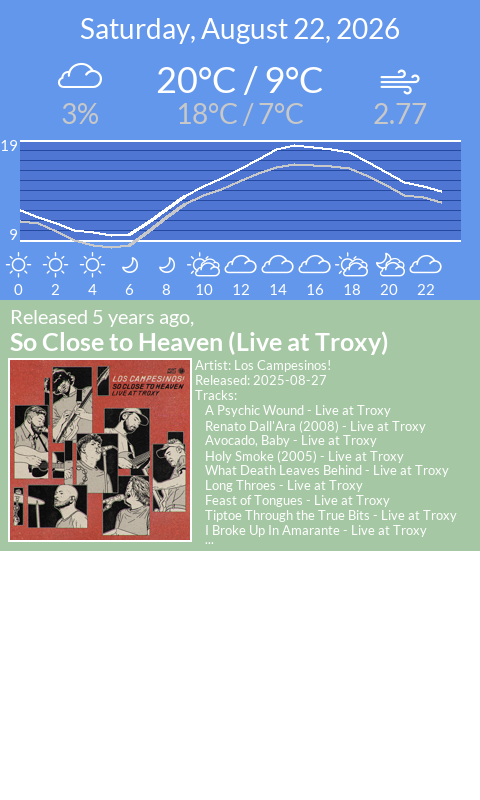
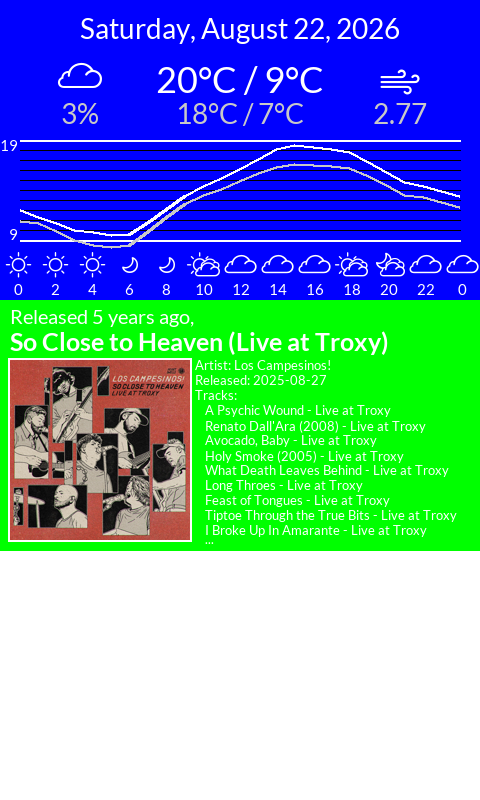
Added a color palette system

diff --git a/WeatherWindow.py b/WeatherWindow.py
@@ -4,7 +4,7 @@ from zoneinfo import ZoneInfo
 import requests
 import sys
 
-def DrawWindow(draw, API_KEY, startingYPos):
+def DrawWindow(draw, COLOR_PALETTE, API_KEY, startingYPos):
     # Loading fonts
     try:
         small_lato_font_regular = ImageFont.truetype("Lato/Lato-Regular.ttf", size=15)
@@ -127,7 +127,7 @@ def DrawWindow(draw, API_KEY, startingYPos):
     # Drawing the background
     draw.rectangle(
         (0, startingYPos - 300, 480, startingYPos),
-        fill=(99, 151, 235))
+        fill=COLOR_PALETTE["BLUE"])
 
     # Getting the current date and allowed tomorrow date
     dundeeTime = datetime.now(ZoneInfo("Europe/London")) + timedelta(days=1)
@@ -159,10 +159,10 @@ def DrawWindow(draw, API_KEY, startingYPos):
         # Only draw the data if the hour is even
         if (dateTimeObject.hour % 2 == 0):
             # Drawing weather condition symbol
-            draw.text(((index + 0.5) * 37, startingYPos - 20), WEATHER_CODE_SYMBOLS[entry["significantWeatherCode"]], fill=(255, 255, 255), font=symbol_font, anchor="ms")
+            draw.text(((index + 0.5) * 37, startingYPos - 20), WEATHER_CODE_SYMBOLS[entry["significantWeatherCode"]], fill=COLOR_PALETTE["WHITE"], font=symbol_font, anchor="ms")
 
             # Drawing time
-            draw.text(((index + 0.5) * 37, startingYPos - 5), timeString, fill=(255, 255, 255), font=small_lato_font_regular, anchor="ms")
+            draw.text(((index + 0.5) * 37, startingYPos - 5), timeString, fill=COLOR_PALETTE["WHITE"], font=small_lato_font_regular, anchor="ms")
 
             # Increasing index
             index += 1
@@ -177,25 +177,21 @@ def DrawWindow(draw, API_KEY, startingYPos):
         maxTemp = max(maxTemp, entry["screenTemperature"])
         minTemp = min(minTemp, entry["screenTemperature"])
 
-    # Drawing a box for the temp graph
+    # Calculating the height of the graph
     tempGraphHeight = max(maxGraphTemp - minGraphTemp, 5)
-    draw.rectangle(
-        (20, startingYPos - 160, 460, startingYPos - 60),
-        fill=(80, 118, 212)
-    )
 
     # Drawing incremental lines for each integer degree value
     degrees = int(round(maxGraphTemp) - round(minGraphTemp))
     degreeOffset = 100 / float(degrees)
     for i in range(degrees):
         lineYPos = startingYPos - 60 - (i * degreeOffset)
-        draw.line((20, lineYPos, 460, lineYPos), fill=(37, 73, 161), width=1)
+        draw.line((20, lineYPos, 460, lineYPos), fill=COLOR_PALETTE["BLACK"], width=1)
 
     # Drawing lines and labels for the top and bottom lines
-    draw.text((18, startingYPos - 60), str(round(minGraphTemp)), fill=(255, 255, 255), font=small_lato_font_regular, anchor="rb")
-    draw.text((18, startingYPos - 160), str(round(maxGraphTemp)), fill=(255, 255, 255), font=small_lato_font_regular, anchor="rt")
-    draw.line((20, startingYPos - 60, 460, startingYPos - 60), fill=(255, 255, 255), width=2)
-    draw.line((20, startingYPos - 160, 460, startingYPos - 160), fill=(255, 255, 255), width=2)
+    draw.text((18, startingYPos - 60), str(round(minGraphTemp)), fill=COLOR_PALETTE["WHITE"], font=small_lato_font_regular, anchor="rb")
+    draw.text((18, startingYPos - 160), str(round(maxGraphTemp)), fill=COLOR_PALETTE["WHITE"], font=small_lato_font_regular, anchor="rt")
+    draw.line((20, startingYPos - 60, 460, startingYPos - 60), fill=COLOR_PALETTE["WHITE"], width=2)
+    draw.line((20, startingYPos - 160, 460, startingYPos - 160), fill=COLOR_PALETTE["WHITE"], width=2)
 
     # Looping through the temp data points and drawing a graph
     for i in range(len(actualTempPoints) - 1):
@@ -208,8 +204,8 @@ def DrawWindow(draw, API_KEY, startingYPos):
         feelsLikeTempLineEnd = ((i + 1) * 18.333 + 20, (feelsLikeTempPoints[i + 1] - minGraphTemp) / tempGraphHeight * -90 + startingYPos - 65)
 
         # Drawing a line from point i to i + 1
-        draw.line((feelsLikeTempLineStart, feelsLikeTempLineEnd), fill=(200, 200, 200), width=3)
-        draw.line((actualTempLineStart, actualTempLineEnd), fill=(255, 255, 255), width=3)
+        draw.line((feelsLikeTempLineStart, feelsLikeTempLineEnd), fill=COLOR_PALETTE["LIGHT_GREY"], width=3)
+        draw.line((actualTempLineStart, actualTempLineEnd), fill=COLOR_PALETTE["WHITE"], width=3)
 
     # Getting daily weather info
     BASE_URL = "https://data.hub.api.metoffice.gov.uk/sitespecific/v0/point/daily"
@@ -246,8 +242,8 @@ def DrawWindow(draw, API_KEY, startingYPos):
         # Drawing temp ranges
         tempRange = f"{round(weatherToday["dayUpperBoundMaxTemp"])}°C / {round(weatherToday["nightLowerBoundMinTemp"])}°C" 
         feelsLikeTempRange = f"{round(weatherToday["dayUpperBoundMaxFeelsLikeTemp"])}°C / {round(weatherToday["nightLowerBoundMinFeelsLikeTemp"])}°C" 
-        draw.text((240, startingYPos - (200 + 5)), tempRange, fill=(255, 255, 255), font=large_lato_font_regular, anchor="mb")
-        draw.text((240, startingYPos - (200 - 3)), feelsLikeTempRange, fill=(200, 200, 200), font=medium_lato_font_regular, anchor="mt")
+        draw.text((240, startingYPos - (200 + 5)), tempRange, fill=COLOR_PALETTE["WHITE"], font=large_lato_font_regular, anchor="mb")
+        draw.text((240, startingYPos - (200 - 3)), feelsLikeTempRange, fill=COLOR_PALETTE["LIGHT_GREY"], font=medium_lato_font_regular, anchor="mt")
 
         # Drawing chance of rain
         rainIcons = [
@@ -258,17 +254,17 @@ def DrawWindow(draw, API_KEY, startingYPos):
         ]
         rainChance = f"{weatherToday["dayProbabilityOfPrecipitation"]}%"
         rainIconIndex = round((weatherToday["dayProbabilityOfPrecipitation"] / 25))
-        draw.text((80, startingYPos - (200 + 3)), rainIcons[rainIconIndex], fill=(255, 255, 255), font=large_symbol_font, anchor="mb")
-        draw.text((80, startingYPos - (200 - 3)), rainChance, fill=(200, 200, 200), font=medium_lato_font_regular, anchor="mt")
+        draw.text((80, startingYPos - (200 + 3)), rainIcons[rainIconIndex], fill=COLOR_PALETTE["WHITE"], font=large_symbol_font, anchor="mb")
+        draw.text((80, startingYPos - (200 - 3)), rainChance, fill=COLOR_PALETTE["LIGHT_GREY"], font=medium_lato_font_regular, anchor="mt")
 
         # Drawing wind speeds
         windSpeeds = f"{weatherToday["midday10MWindSpeed"]}"
-        draw.text((400, startingYPos - (200 - 3)), "", fill=(255, 255, 255), font=large_symbol_font, anchor="mb")
-        draw.text((400, startingYPos - (200 - 3)), windSpeeds, fill=(200, 200, 200), font=medium_lato_font_regular, anchor="mt")
+        draw.text((400, startingYPos - (200 - 3)), "", fill=COLOR_PALETTE["WHITE"], font=large_symbol_font, anchor="mb")
+        draw.text((400, startingYPos - (200 - 3)), windSpeeds, fill=COLOR_PALETTE["LIGHT_GREY"], font=medium_lato_font_regular, anchor="mt")
 
         # Drawing day at the top
         dateText = dundeeTime.strftime("%A, %B %#d, %Y")
-        draw.text((240, startingYPos - 282), dateText, fill=(255, 255, 255), font=medium_lato_font_regular, anchor="mt")
+        draw.text((240, startingYPos - 282), dateText, fill=COLOR_PALETTE["WHITE"], font=medium_lato_font_regular, anchor="mt")
         
     except requests.exceptions.requests.HTTPError as http_err:
         print(f"HTTP error occurred: {http_err}")

diff --git a/SpotifyWindow.py b/SpotifyWindow.py
@@ -4,7 +4,7 @@ from io import BytesIO
 import requests
 import json
 
-def DrawWindow(displayImage, draw, API_TOKEN, startingYPos):
+def DrawWindow(displayImage, draw, COLOR_PALETTE, API_TOKEN, startingYPos):
     # Loading fonts
     try:
         small_lato_font_regular = ImageFont.truetype("Lato/Lato-Regular.ttf", size=13)
@@ -69,20 +69,20 @@ def DrawWindow(displayImage, draw, API_TOKEN, startingYPos):
     # Draw the background
     draw.rectangle(
         (0, startingYPos - 250, 480, startingYPos),
-        fill=(165, 199, 163))
+        fill=COLOR_PALETTE["GREEN"])
 
     # Drawing the release title to the screen
-    draw.text((10, startingYPos - 240), f"Released {yearsAgo} years ago,", fill=(255, 255, 255), font=medium_lato_font_regular, anchor="lt")
-    draw.text((10, startingYPos - 219), releaseName, fill=(255, 255, 255), font=medium_lato_font_bold, anchor="lt")
+    draw.text((10, startingYPos - 240), f"Released {yearsAgo} years ago,", fill=COLOR_PALETTE["WHITE"], font=medium_lato_font_regular, anchor="lt")
+    draw.text((10, startingYPos - 219), releaseName, fill=COLOR_PALETTE["WHITE"], font=medium_lato_font_bold, anchor="lt")
     
     # Drawing the outline and the image
-    draw.rectangle((8, startingYPos - 192, 191, startingYPos - 9), fill=(255, 255, 255))
+    draw.rectangle((8, startingYPos - 192, 191, startingYPos - 9), fill=COLOR_PALETTE["WHITE"])
     displayImage.paste(releaseImage, (10, startingYPos - 190))
 
     # Drawing some release info
-    draw.text((195, startingYPos - 190), f"Artist: {artistName}",    fill=(255, 255, 255), font=small_lato_font_regular, anchor="lt")
-    draw.text((195, startingYPos - 175), f"Released: {releaseDate}", fill=(255, 255, 255), font=small_lato_font_regular, anchor="lt")
-    draw.text((195, startingYPos - 160), f"Tracks:", fill=(255, 255, 255),                 font=small_lato_font_regular, anchor="lt")
+    draw.text((195, startingYPos - 190), f"Artist: {artistName}",    fill=COLOR_PALETTE["WHITE"], font=small_lato_font_regular, anchor="lt")
+    draw.text((195, startingYPos - 175), f"Released: {releaseDate}", fill=COLOR_PALETTE["WHITE"], font=small_lato_font_regular, anchor="lt")
+    draw.text((195, startingYPos - 160), f"Tracks:", fill=COLOR_PALETTE["WHITE"],                 font=small_lato_font_regular, anchor="lt")
 
     # Drawing info on each of the tracks of the release (max 8)
     releaseTracks = releaseResult["tracks"]["items"]
@@ -92,8 +92,8 @@ def DrawWindow(displayImage, draw, API_TOKEN, startingYPos):
 
         # Checking if the max index has been reached
         if (index > 8 and len(releaseTracks) > 8):
-            draw.text((205, yPos + 2), "...", fill=(255, 255, 255), font=small_lato_font_regular, anchor="lt")
+            draw.text((205, yPos + 2), "...", fill=COLOR_PALETTE["WHITE"], font=small_lato_font_regular, anchor="lt")
             break
 
         # Drawing the track
-        draw.text((205, yPos), track["name"], fill=(255, 255, 255), font=small_lato_font_regular, anchor="lt")
+        draw.text((205, yPos), track["name"], fill=COLOR_PALETTE["WHITE"], font=small_lato_font_regular, anchor="lt")

diff --git a/main.py b/main.py
@@ -11,10 +11,38 @@ import os
 # Trying to import inky stuff
 try:
     from inky.auto import auto
+
+    # Creating the inky display object
+    inky_display = auto(ask_user=True, verbose=True)
+
     print("Inky succesfully loaded")
 except:
     print("Failed to load Inky library")
 
+# Creating the color palette
+try:
+    COLOR_PALETTE = {
+        "BLACK": inky_display.BLACK,
+        "WHITE": inky_display.WHITE,
+        "RED": inky_display.RED,
+        "GREEN": inky_display.GREEN,
+        "BLUE": inky_display.BLUE,
+        "YELLOW": inky_display.YELLOW,
+        "ORANGE": inky_display.ORANGE,
+        "LIGHT_GREY": (200, 200, 200),
+    }
+except:
+    COLOR_PALETTE = {
+        "BLACK": (0, 0, 0),
+        "WHITE": (255, 255, 255),
+        "RED": (255, 0, 0),
+        "GREEN": (0, 255, 0),
+        "BLUE": (0, 0, 255),
+        "YELLOW": (255, 255, 0),
+        "ORANGE": (255, 140, 0),
+        "ORANGE": (255, 140, 0),
+        "LIGHT_GREY": (200, 200, 200),
+    }
 
 # Creating image and drawing device
 image = Image.new("P", (480, 800), "white")
@@ -64,18 +92,15 @@ def getToken():
 SPOTIFY_TOKEN = getToken()
 
 # Calling the different window functions
-WeatherWindow.DrawWindow(draw, WEATHER_API_KEY, 300)
+WeatherWindow.DrawWindow(draw, COLOR_PALETTE, WEATHER_API_KEY, 300)
 #ArtWindow.DrawWindow(draw, 550)
-SpotifyWindow.DrawWindow(image, draw, SPOTIFY_TOKEN, 550)
+SpotifyWindow.DrawWindow(image, draw, COLOR_PALETTE, SPOTIFY_TOKEN, 550)
 
 # Saving the image
 image.save("displayImage.png")
 
 #Inky stuff
 try:
-    # Creating the inky display object
-    inky_display = auto(ask_user=True, verbose=True)
-
     # Rotating the image to fit the display
     inkyImage = Image.new("P", (inky_display.width, inky_display.height), inky_display.WHITE)
     rotImage = image.rotate(90, expand=True)
